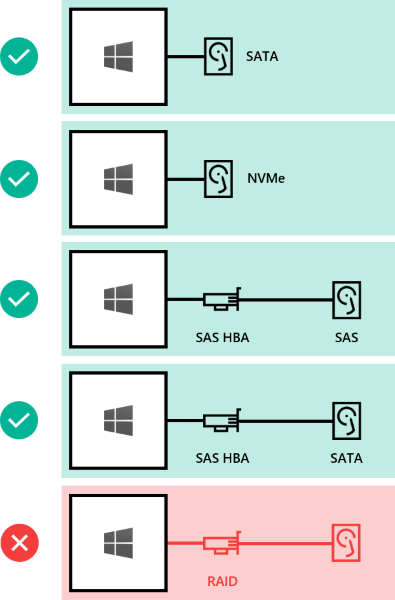
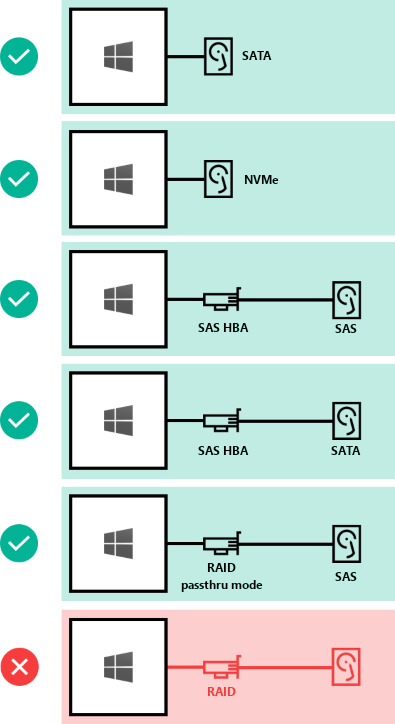
Updated diagram showing supported and unsupported drive interconnects

diff --git a/WindowsServerDocs/storage/storage-spaces/Storage-Spaces-Direct-Hardware-Requirements.md b/WindowsServerDocs/storage/storage-spaces/Storage-Spaces-Direct-Hardware-Requirements.md
@@ -100,7 +100,7 @@ Here's how drives can be connected for Storage Spaces Direct:
 - RAID controller cards directly passing through SAS physical storage devices only
 - **NOT SUPPORTED:** RAID controller cards that don't support direct pass through of SAS physical storage devices or SAN (Fibre Channel, iSCSI, FCoE) storage. Host-bus adapter (HBA) cards must implement simple pass-through mode for any storage devices used for Storage Spaces Direct
 
-![Diagram showing supported drive interconnects, with RAID cards not supported](media/hardware-requirements/drive-interconnect-support-1.png)
+![Diagram showing supported and unsupported drive interconnects](media/hardware-requirements/drive-interconnect-support-1.png)
 
 Drives can be internal to the server, or in an external enclosure that is connected to just one server. SCSI Enclosure Services (SES) is required for slot mapping and identification. Each external enclosure must present a unique identifier (Unique ID).
 
